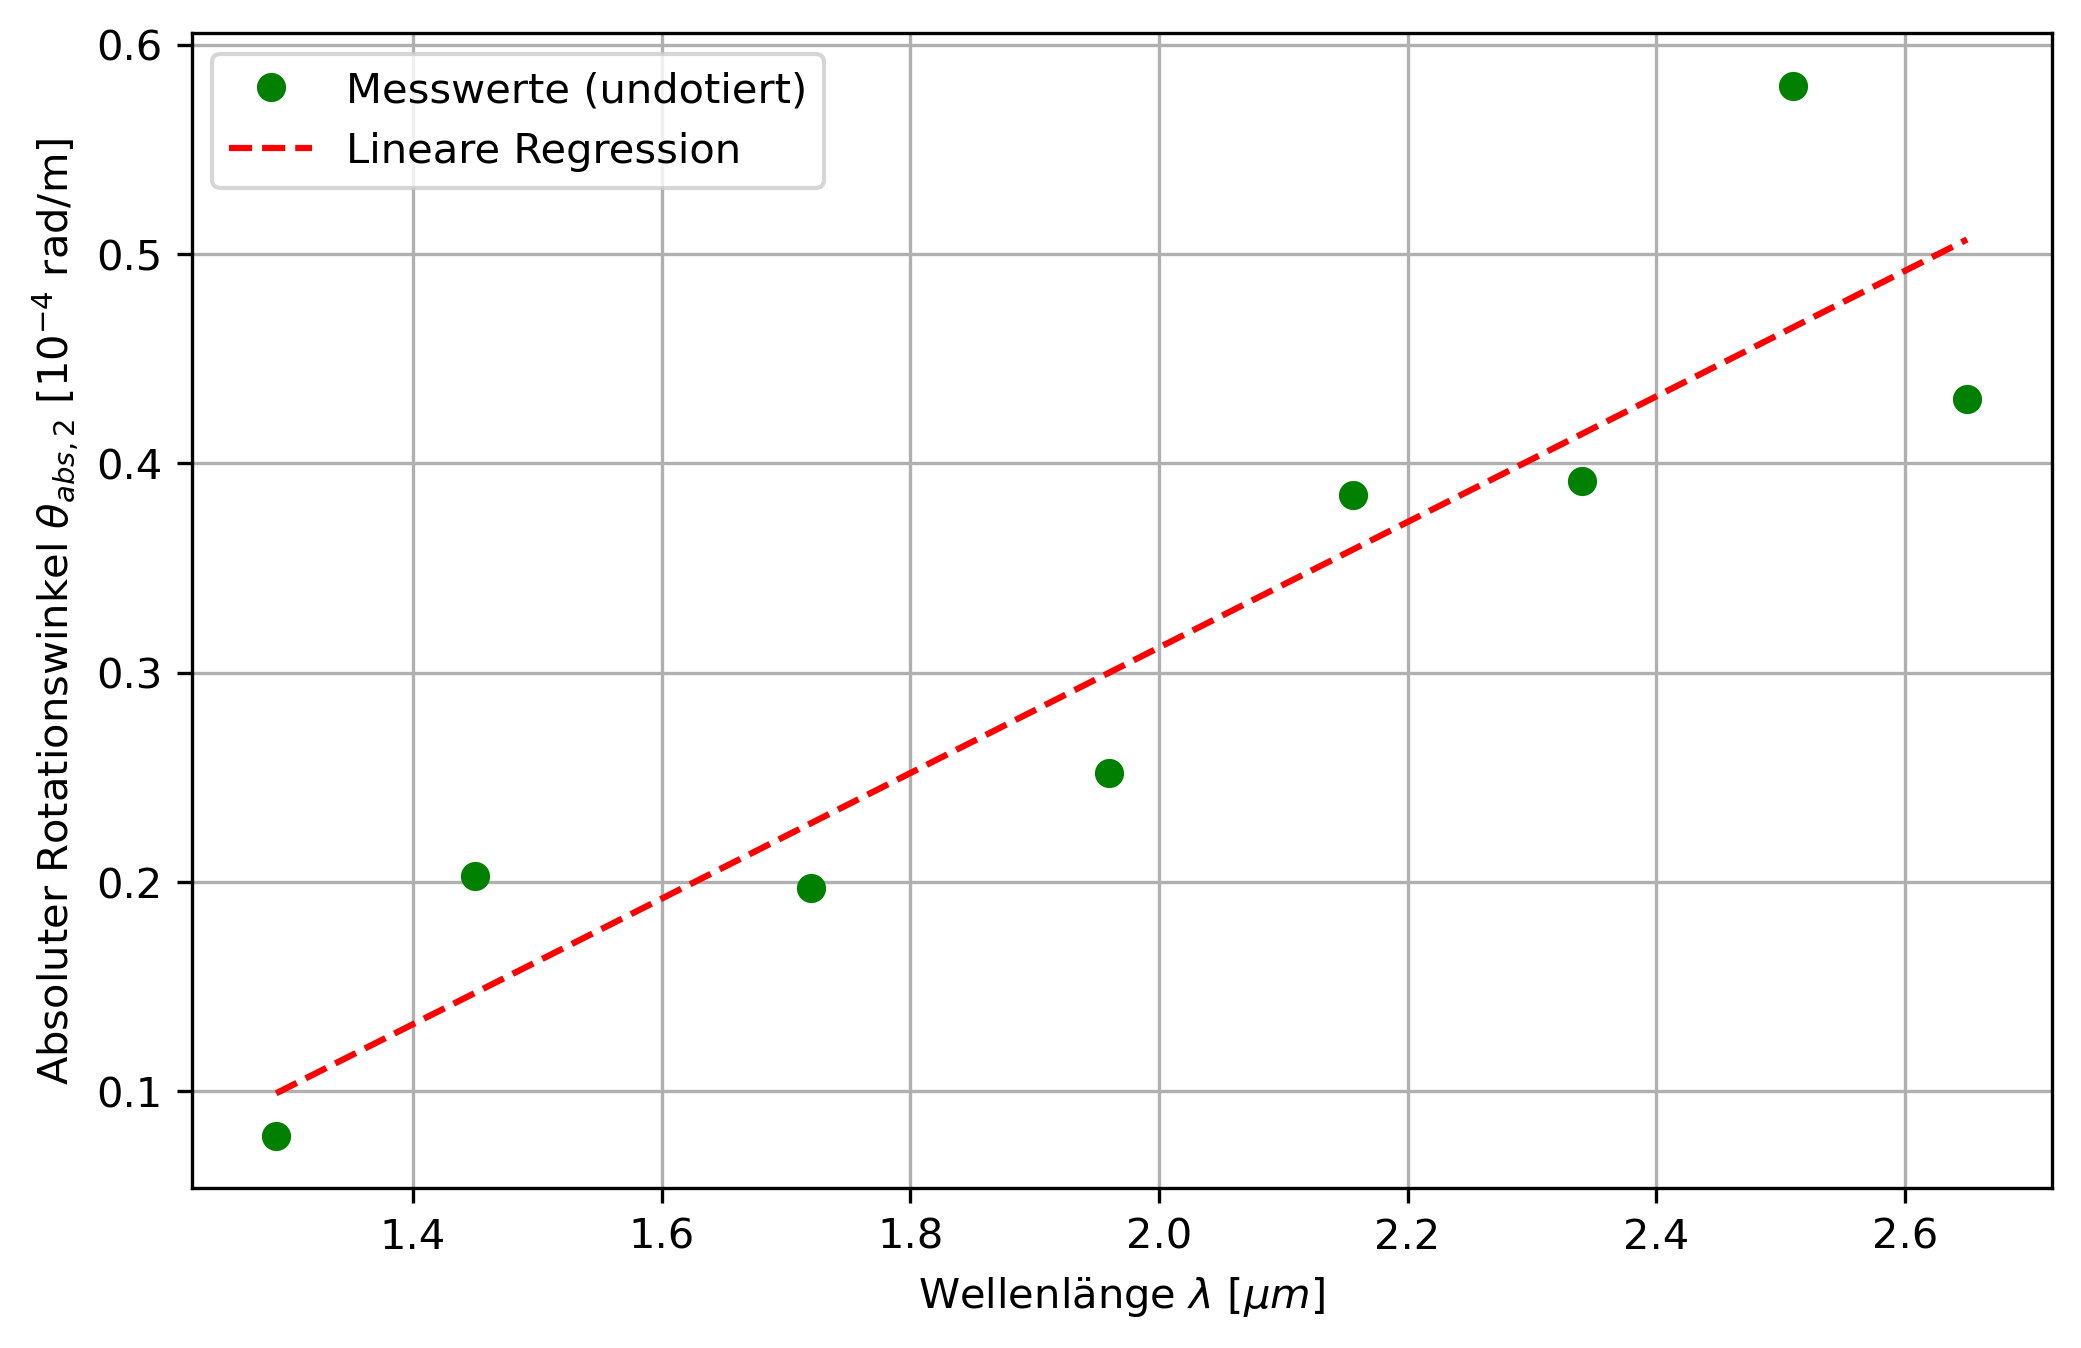
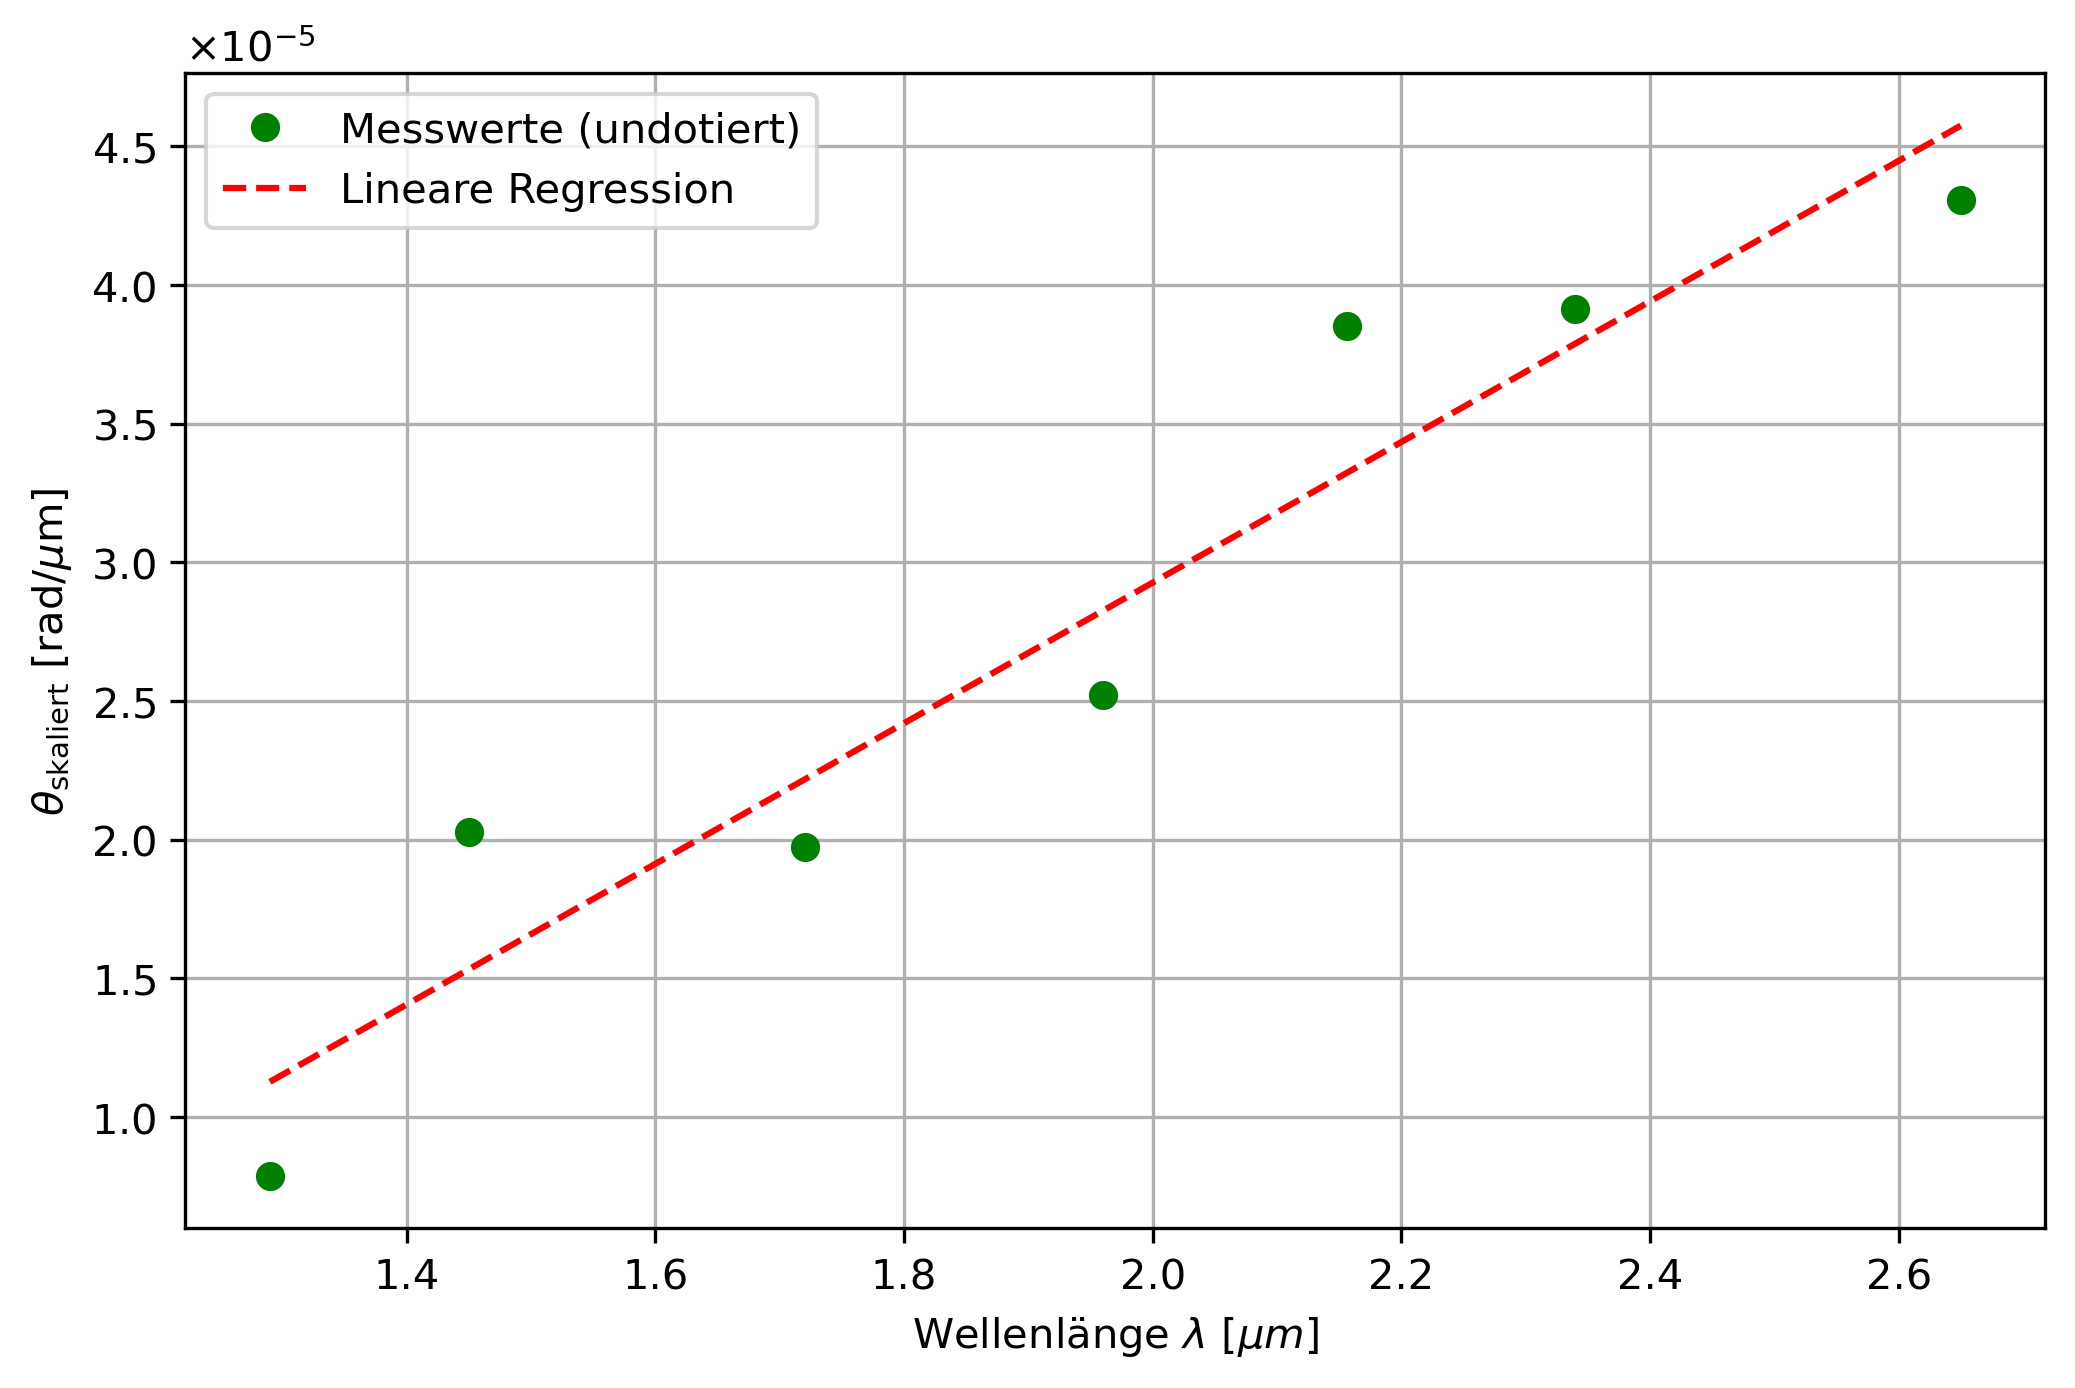
auswertung und diskussion pi mal daumen fertig

diff --git a/v46/masse2.py b/v46/masse2.py
@@ -14,11 +14,16 @@ theta_abs_2 = pd.to_numeric(df.iloc[:, 12].astype(str).str.replace(',', '.'), er
 
 # Filtern! Wir werfen alle Zeilen raus, in denen ein Wert fehlt (NaN)
 mask = ~np.isnan(wellenlaenge) & ~np.isnan(theta_abs_2)
-w_clean = wellenlaenge[mask]
-t_clean = theta_abs_2[mask]
+
+# Umwandlung in Numpy-Arrays, um das Löschen einfacher zu machen
+w_clean = wellenlaenge[mask].to_numpy()
+t_clean = theta_abs_2[mask].to_numpy()
+
+# --- NEU: Vorletzten Messwert (Index -2) entfernen ---
+w_clean = np.delete(w_clean, -2)
+t_clean = np.delete(t_clean, -2)
 
 # 3. Lineare Regression mit Gewichten und unskalierter Kovarianzmatrix berechnen
-# (Rechnung bleibt in Originalwerten, damit die Prints stimmen!)
 params, cov = np.polyfit(w_clean, t_clean, 1, cov=True)
 m = params[0] # Steigung
 b = params[1] # y-Achsenabschnitt
@@ -35,20 +40,19 @@ y_fit = m * x_fit + b
 print(f"Steigung (m): {m:.2e} +/- {m_err:.2e}")
 print(f"y-Achsenabschnitt (b): {b:.2e} +/- {b_err:.2e}")
 
-# --- NEU: Werte NUR für die Optik im Plot auf 10^-4 skalieren ---
-t_clean_plot = t_clean * 10**4
-y_fit_plot = y_fit * 10**4
-
-# 4. Diagramm plotten
+# 4. Diagramm plotten (wieder mit den originalen, unskalierten Werten)
 plt.figure(figsize=(8, 5))
-plt.plot(w_clean, t_clean_plot, 'go', label='Messwerte (undotiert)')
+plt.plot(w_clean, t_clean, 'go', label='Messwerte (undotiert)')
 
 # Regressionsgerade einzeichnen (rot, gestrichelt)
-plt.plot(x_fit, y_fit_plot, 'r--', label='Lineare Regression')
+plt.plot(x_fit, y_fit, 'r--', label='Lineare Regression')
 
-# 5. Achsen passend beschriften (Vorfaktor direkt im Label!)
+# Wissenschaftliche Notation wieder automatisch von Matplotlib machen lassen
+plt.ticklabel_format(style='sci', axis='y', scilimits=(0,0), useMathText=True)
+
+# 5. Achsen passend beschriften (ohne manuellen Vorfaktor, dafür mit schönem Index)
 plt.xlabel(r'Wellenlänge $\lambda$ [$\mu m$]')
-plt.ylabel(r'Absoluter Rotationswinkel $\theta_{abs,2}$ [$10^{-4}$ rad/m]')
+plt.ylabel(r'$\theta_{\mathrm{skaliert}}$ [rad/$\mu$m]')
 
 plt.grid(True)
 plt.legend()

diff --git a/v46/content/auswertung.tex b/v46/content/auswertung.tex
@@ -70,7 +70,7 @@ Zur Bestimmung des maximalen B-Feldes, also dem B-Feld in dem unsere Proben sitz
 
 \subsection{Drehwinkel der Proben}
 
-Die Eigenschaften der einzelnen Proben sind in folgender Tabelle dargestellt. Hierbei ist $N$ die Dotierungskonzentration, $d$ die Dicke der Probe und $n$ der Brechungsindex der Probe.
+Die Eigenschaften der einzelnen Proben sind in folgender Tabelle dargestellt. Hierbei ist $N$ die Dotierungskonzentration, $d$ die Dicke der Probe und $n$ \cite{Brechungsindex} der Brechungsindex der Probe.
 \begin{table}[H]
     \centering
     \caption{Eigenschaften der Proben.}
@@ -118,6 +118,11 @@ und
 \begin{equation*}
     \qty{1}{\arcminute} = \frac{1}{60} \unit{\degree}\end{equation*}
 wird der Winkel vom Gradmaß in Bogenmaß umgerechnet.
+Der Winkel $\Theta$ wird mithilfe von 
+\begin{equation*}
+    \theta_{skaliert} = \frac{\theta_1 - \theta_2}{2L}
+\end{equation*}
+skaliert.
 Im Folgenden werden die Drehwinkel für die drei Proben in Abhängigkeit der Wellenlänge graphisch aufgetragen. 
 
 \begin{figure}[H]
@@ -154,6 +159,7 @@ Die lineare Regression liefert für $y=a \cdot x + b$ den Wert
     \centering
     \includegraphics[width=0.8\textwidth]{content/plots/theta_abs_2_vs_lambda_linreg.png}
     \caption{Drehwinkel der Differenz der zweiten n-dotierten Probe in Abhängigkeit der Wellenlänge.}
+    \label{fig:masse2}
 \end{figure}
 Die lineare Regression liefert für $y=a \cdot x + b$ den Wert
 \begin{align*}
@@ -170,7 +176,7 @@ kann die effektive Masse $m*$ bestimmt werden.
 Daraus folgt
 \begin{align*}
     m_{\text{eff},1} &= \num{0.046 \pm 0.004} \, m_{\text{e}} \\
-    m_{\text{eff},2} &= \num{0.036 \pm 0.003} \, m_{\text{e}}
+    m_{\text{eff},2} &= \num{0.039 \pm 0.003} \, m_{\text{e}}
 \end{align*}
 für die beiden effektiven Massen.
 \clearpage

diff --git a/v46/content/diskussion.tex b/v46/content/diskussion.tex
@@ -8,5 +8,18 @@ Die relative Messabweichung wurde nach der Formel
 \end{equation}
 bestimmt.
 
-
+\subsection{Bestimmung des B-Feldes}
+Die Bestimmung des B-Feldes hat gut geklappt, hierbei sind keine offensichtlichen Fehler aufgefallen.
+\subsection{Bestimmung der effektiven Masse}
+Um einen Vergleich zu ziehen, ob die Messung gelungen ist wird der Wert der effektiven Masse mit dem Theoriewert von GaAs verglichen. Hierzu folgt der Theoriewert von GaAs \cite{GaAs} mit 
+\begin{equation*}
+    m^\ast = 0.067 \, m_e.
+\end{equation*}
+Daraus ergibt sich nach \eqref{eq:abweichung} eine relative Messabweichung von ... 
+\begin{align*}
+    m_{eff,1} &= 31.34\,\% \\
+    m_{eff,2} &= 41.79\, \%
+\end{align*}
+Der Fehler kann hierbei zustande kommen, wegen ungenauem Ablesen der Messinstrumente oder kann der Polarisationfilter beispielsweise nicht perfekt eingestellt sein für die einzelnen Messungen. Ein weiterer Grund für den Fehler kann der immer wärmer werdende Magnet sein, welcher im Verlauf des Versuchs immer heißer geworden ist, wodurch die Leitfähigkeit des Halbleiters erhöht wird. 
+Aufgrund von beispielsweise veralteter und fehlerbehafteter Messgeräte kann es des Weiteren zu Fehlern kommen, so musste beispielsweise ein Messwert in \autoref{fig:masse2} in der linearen Regression ignoriert werden.
 \clearpage

diff --git a/v46/ndotiert2.py b/v46/ndotiert2.py
@@ -14,17 +14,16 @@ theta_skaliert = df.iloc[:, 6].astype(str).str.replace(',', '.').astype(float)
 # Wellenlänge quadrieren
 lambda_sq = wellenlaenge ** 2
 
-# NEU: Werte manuell für die 10^-4 Skalierung anpassen
-theta_skaliert_angepasst = theta_skaliert * 10**4
-
-# Plot erstellen (jetzt mit den angepassten Werten)
+# Plot erstellen (wieder mit den originalen, unskalierten Werten)
 plt.figure(figsize=(8, 5))
-plt.plot(lambda_sq, theta_skaliert_angepasst, 'bo', label='Messwerte')
+plt.plot(lambda_sq, theta_skaliert, 'bo', label='Messwerte')
+
+# Wissenschaftliche Notation wieder automatisch von Matplotlib machen lassen
+plt.ticklabel_format(style='sci', axis='y', scilimits=(0,0), useMathText=True)
 
 plt.xlabel(r'Wellenlänge $\lambda^2$ [$\mu m^2$]')
-# NEU: Den Vorfaktor 10^-4 direkt ins Label schreiben
-plt.ylabel(r'Normierter Rotationswinkel $\theta_{skaliert}$ [$10^{-4}$ rad/m]')
-plt.title(r'Faraday-Rotation: $\theta_{skaliert}$ gegen $\lambda^2$ (n-dotiert 2)')
+# Die typografisch saubere Formatierung direkt beibehalten
+plt.ylabel(r'$\theta_{\mathrm{skaliert}}$ [rad/$\mu$m]')
 
 plt.grid(True)
 plt.legend()

diff --git a/v46/ndotiert1.py b/v46/ndotiert1.py
@@ -22,8 +22,7 @@ plt.plot(lambda_sq, theta_skaliert, 'bo', label='Messwerte')
 plt.ticklabel_format(style='sci', axis='y', scilimits=(0,0), useMathText=True)
 
 plt.xlabel(r'Wellenlänge $\lambda^2$ [$\mu m^2$]')
-plt.ylabel(r'Normierter Rotationswinkel $\theta_{skaliert}$ [rad/m]')
-plt.title(r'Faraday-Rotation: $\theta_{skaliert}$ gegen $\lambda^2$ (n-dotiert 1)')
+plt.ylabel(r'$\theta_{\mathrm{skaliert}}$ [rad/$\mu$m]')
 
 plt.grid(True)
 plt.legend()

diff --git a/v46/masse1.py b/v46/masse1.py
@@ -46,8 +46,7 @@ plt.ticklabel_format(style='sci', axis='y', scilimits=(0,0), useMathText=True)
 
 # 6. Achsen passend beschriften
 plt.xlabel(r'Wellenlänge $\lambda$ [$\mu m$]')
-plt.ylabel(r'Absoluter Rotationswinkel $\theta_{abs,1}$ [rad/m]')
-plt.title(r'Faraday-Rotation: $\theta_{abs,1}$ gegen $\lambda$ (undotiert)')
+plt.ylabel(r'$\theta_{\mathrm{skaliert}}$ [rad/$\mu$m]')
 
 plt.grid(True)
 plt.legend()

diff --git a/v46/masseu2.py b/v46/masseu2.py
@@ -23,8 +23,8 @@ B_err = 0.001
 B = ufloat(B_val, B_err)
 
 # Steigung a in µm^-3 eintragen!
-a_val = 3.00e-5       # Dein abgelesener Wert
-a_err = 0.51e-5       # Dein Fehler
+a_val = 2.54e-5       # Dein abgelesener Wert
+a_err = 0.35e-5       # Dein Fehler
 a_ufloat_um3 = ufloat(a_val, a_err)
 
 # NEU: Umrechnung von µm^-3 in die SI-Einheit m^-3 

diff --git a/v46/undotiert.py b/v46/undotiert.py
@@ -22,8 +22,7 @@ plt.plot(lambda_sq, theta_skaliert, 'bo', label='Messwerte')
 plt.ticklabel_format(style='sci', axis='y', scilimits=(0,0), useMathText=True)
 
 plt.xlabel(r'$\lambda^2$ [$\mu m^2$]')
-plt.ylabel(r'$\theta_{skaliert}$ [rad/m]')
-
+plt.ylabel(r'$\theta_{\mathrm{skaliert}}$ [rad/$\mu$m]')
 plt.grid(True)
 plt.legend()
 
